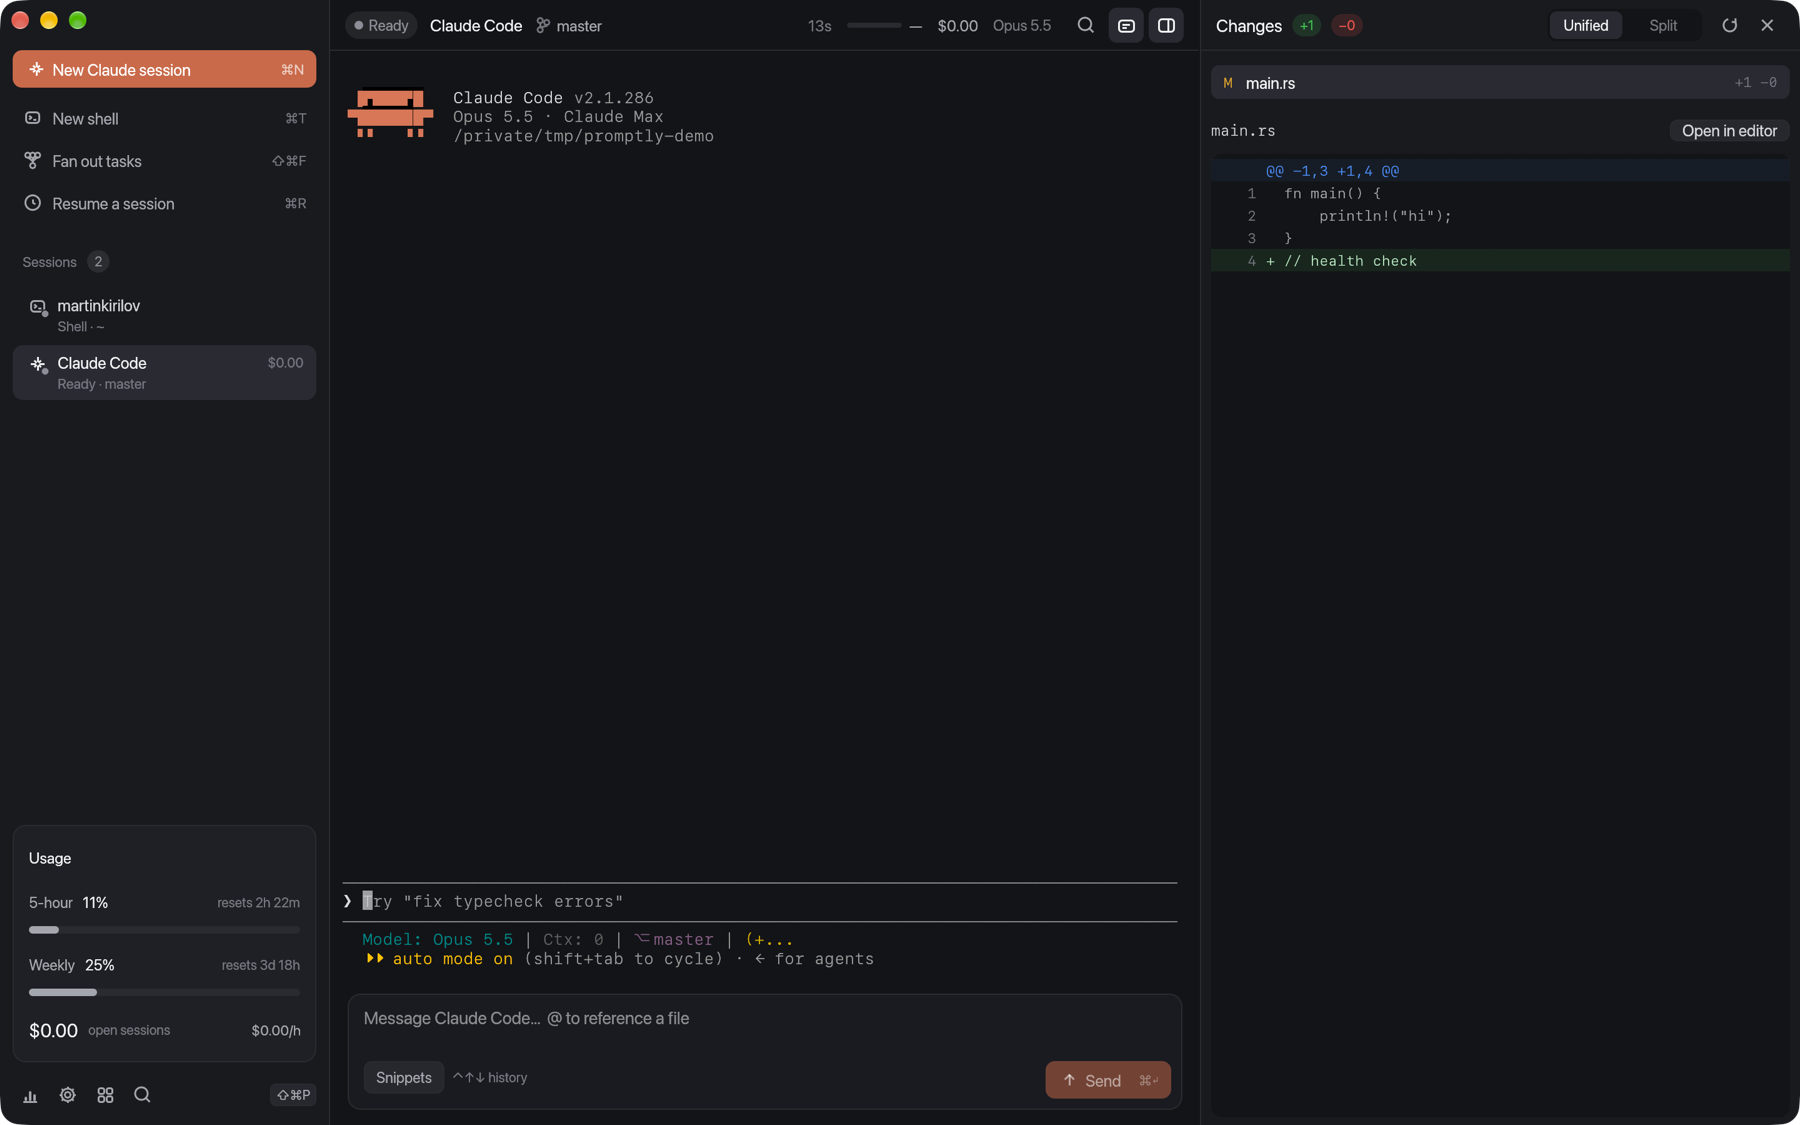
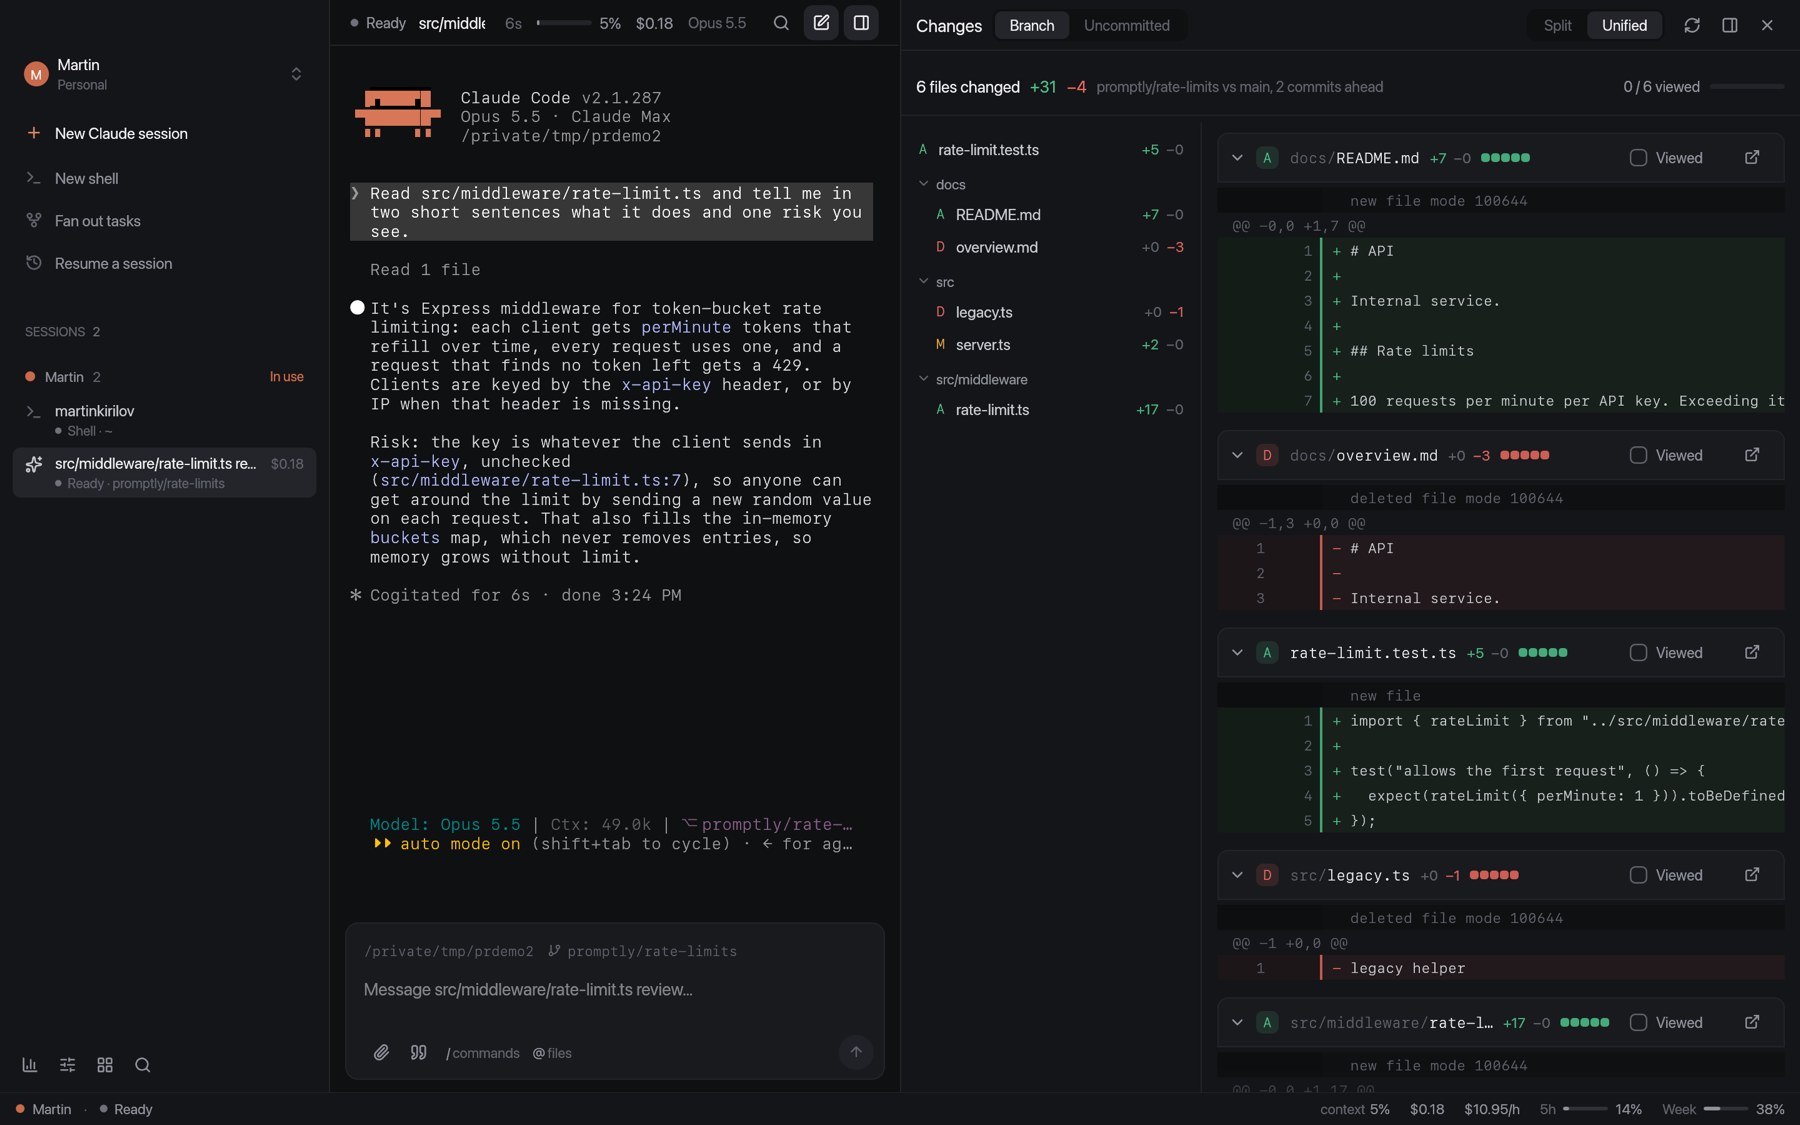
New screenshots of the redesign; header never overlaps
- README and website screenshots re-shot from a real Claude Code session
  (main window with review, usage dashboard, command palette)
- README and site text: usage meters live in the status bar; Settings >
  Updates offers "Update to vX"
- Pane header lays out its right-hand controls first and clips the title,
  so narrow panes (e.g. with review open) no longer overlap
- Account and shell-command actions moved to the end of the palette
- marketing test renders these screenshots (opt-in, uses a real session)

diff --git a/site/index.html b/site/index.html
@@ -288,7 +288,7 @@ footer a { color: var(--label-2); }
       </div>
       <p class="fine"><span class="dl-ver">Latest release</span>. Apple silicon with macOS 14 or later, unsigned for now. Also on Linux.</p>
     </div>
-    <div class="shot reveal"><img src="assets/main.png" alt="Promptly with a Claude Code session in the middle, sessions and live usage in the sidebar, and a diff in the review pane" width="1800" height="1125"></div>
+    <div class="shot reveal"><img src="assets/main.png" alt="Promptly with a Claude Code session in the middle, sessions in the sidebar, live plan usage in the status bar, and a diff in the review pane" width="1800" height="1125"></div>
   </header>
 
   <section id="highlights">

diff --git a/crates/promptly/src/app.rs b/crates/promptly/src/app.rs
@@ -89,19 +89,6 @@ enum Action {
 
 const ACTIONS: &[(Action, &str, &str, &str)] = &[
     (
-        Action::SwitchAccount,
-        "switch_account",
-        "Switch Claude account",
-        "primary+shift+a",
-    ),
-    (Action::AddAccount, "add_account", "Add Claude account", ""),
-    (
-        Action::AskCommand,
-        "ask_command",
-        "Ask Claude for a shell command",
-        "primary+i",
-    ),
-    (
         Action::Palette,
         "palette",
         "Command palette",
@@ -244,6 +231,19 @@ const ACTIONS: &[(Action, &str, &str, &str)] = &[
         "install_update",
         "Install available update",
         "",
+    ),
+    (
+        Action::SwitchAccount,
+        "switch_account",
+        "Switch Claude account",
+        "primary+shift+a",
+    ),
+    (Action::AddAccount, "add_account", "Add Claude account", ""),
+    (
+        Action::AskCommand,
+        "ask_command",
+        "Ask Claude for a shell command",
+        "primary+i",
     ),
 ];
 
@@ -2945,57 +2945,15 @@ impl App {
                 [rect.left_bottom(), rect.right_bottom()],
                 egui::Stroke::new(1.0, theme::tokens::BORDER),
             );
-            let mut hui = ui.new_child(
+            // Right-hand controls get their space first; the title side is
+            // clipped to what is left, so narrow panes never overlap.
+            let full = rect.shrink2(egui::vec2(16.0, 0.0));
+            let mut rui = ui.new_child(
                 egui::UiBuilder::new()
-                    .max_rect(rect.shrink2(egui::vec2(16.0, 0.0)))
-                    .layout(egui::Layout::left_to_right(egui::Align::Center)),
+                    .max_rect(full)
+                    .layout(egui::Layout::right_to_left(egui::Align::Center)),
             );
-            let ui = &mut hui;
-            ui.spacing_mut().item_spacing.x = 10.0;
-            let st = m.state();
-            if m.is_claude() {
-                kit::state_pill(ui, kit::state_label(st), theme::state_color(st));
-            } else {
-                let (label, col) = match (m.command_running, m.last_exit) {
-                    (true, _) => ("Running".to_string(), theme::BLUE),
-                    (false, Some(c)) if c != 0 => (format!("Exit {c}"), theme::RED),
-                    _ => ("Shell".to_string(), theme::MUTED),
-                };
-                kit::state_pill(ui, &label, col);
-            }
-            let title_col = if is_active {
-                theme::tokens::TEXT
-            } else {
-                theme::tokens::TEXT_2
-            };
-            ui.label(RichText::new(m.display_name()).size(13.0).color(title_col))
-                .on_hover_text(m.cwd.to_string_lossy());
-            if let Some(tag) = c.account_tag(&m.account) {
-                let label = c.account(&m.account).map(|a| a.label()).unwrap_or_default();
-                kit::dot_label(
-                    ui,
-                    &tag,
-                    kit::avatar_color(c.account_index(&m.account)),
-                    theme::tokens::TEXT_3,
-                )
-                .on_hover_text(format!("Claude account: {label}"));
-            }
-            if let Some(b) = &m.branch {
-                let (r, _) = ui.allocate_exact_size(egui::vec2(14.0, 14.0), egui::Sense::hover());
-                kit::paint_icon(ui, r, Icon::Branch, theme::tokens::TEXT_3);
-                ui.add_space(-6.0);
-                ui.label(
-                    RichText::new(b)
-                        .font(FontId::monospace(11.5))
-                        .color(theme::tokens::TEXT_3),
-                );
-            }
-            if m.is_claude() && !m.hooks_injected {
-                kit::dot_label(ui, "transcript-only", theme::AMBER, theme::tokens::TEXT_3)
-                    .on_hover_text("Hooks are not injected; state is derived from the transcript.");
-            }
-
-            ui.with_layout(egui::Layout::right_to_left(egui::Align::Center), |ui| {
+            (|ui: &mut egui::Ui| {
                 ui.spacing_mut().item_spacing.x = 4.0;
                 if kit::icon_button(ui, Icon::PanelRight, "Review changes", self.review_open)
                     .clicked()
@@ -3055,7 +3013,59 @@ impl App {
                     .unwrap_or_else(|| m.started.elapsed());
                 ui.label(RichText::new(fmt_dur(elapsed)).size(12.5).color(muted))
                     .on_hover_text("Current or last turn");
-            });
+            })(&mut rui);
+            let right_w = rui.min_rect().width();
+            let left_rect = full.with_max_x((full.max.x - right_w - 16.0).max(full.min.x));
+            let mut hui = ui.new_child(
+                egui::UiBuilder::new()
+                    .max_rect(left_rect)
+                    .layout(egui::Layout::left_to_right(egui::Align::Center)),
+            );
+            hui.set_clip_rect(left_rect.intersect(ui.clip_rect()));
+            let ui = &mut hui;
+            ui.spacing_mut().item_spacing.x = 10.0;
+            let st = m.state();
+            if m.is_claude() {
+                kit::state_pill(ui, kit::state_label(st), theme::state_color(st));
+            } else {
+                let (label, col) = match (m.command_running, m.last_exit) {
+                    (true, _) => ("Running".to_string(), theme::BLUE),
+                    (false, Some(c)) if c != 0 => (format!("Exit {c}"), theme::RED),
+                    _ => ("Shell".to_string(), theme::MUTED),
+                };
+                kit::state_pill(ui, &label, col);
+            }
+            let title_col = if is_active {
+                theme::tokens::TEXT
+            } else {
+                theme::tokens::TEXT_2
+            };
+            ui.label(RichText::new(m.display_name()).size(13.0).color(title_col))
+                .on_hover_text(m.cwd.to_string_lossy());
+            if let Some(tag) = c.account_tag(&m.account) {
+                let label = c.account(&m.account).map(|a| a.label()).unwrap_or_default();
+                kit::dot_label(
+                    ui,
+                    &tag,
+                    kit::avatar_color(c.account_index(&m.account)),
+                    theme::tokens::TEXT_3,
+                )
+                .on_hover_text(format!("Claude account: {label}"));
+            }
+            if let Some(b) = &m.branch {
+                let (r, _) = ui.allocate_exact_size(egui::vec2(14.0, 14.0), egui::Sense::hover());
+                kit::paint_icon(ui, r, Icon::Branch, theme::tokens::TEXT_3);
+                ui.add_space(-6.0);
+                ui.label(
+                    RichText::new(b)
+                        .font(FontId::monospace(11.5))
+                        .color(theme::tokens::TEXT_3),
+                );
+            }
+            if m.is_claude() && !m.hooks_injected {
+                kit::dot_label(ui, "transcript-only", theme::AMBER, theme::tokens::TEXT_3)
+                    .on_hover_text("Hooks are not injected; state is derived from the transcript.");
+            }
         }
         // Callouts under the header.
         let c = self.core.lock();
@@ -4878,6 +4888,65 @@ pub type Scene = (&'static str, fn(&mut App));
 
 #[cfg(test)]
 impl App {
+    /// Marketing renders: start a real Claude session in `cwd`.
+    pub fn demo_claude(&mut self, cwd: &str) -> Option<PaneId> {
+        self.spawn(NewSession {
+            cwd: Some(cwd.into()),
+            claude: true,
+            ..Default::default()
+        })
+    }
+
+    /// Visible text of a pane (marketing renders).
+    pub fn demo_screen(&self, id: PaneId) -> String {
+        self.panes
+            .get(&id)
+            .map(|e| term_view::screen_text(&e.pane, 200).join("\n"))
+            .unwrap_or_default()
+    }
+
+    /// Type raw bytes into a pane.
+    pub fn demo_type(&self, id: PaneId, bytes: &[u8]) {
+        if let Some(e) = self.panes.get(&id) {
+            e.pane.write(bytes.to_vec());
+        }
+    }
+
+    /// Send a message the way the composer does.
+    pub fn demo_send(&mut self, id: PaneId, text: &str) {
+        self.send_message(id, text, &[]);
+    }
+
+    /// Claude is working on a turn.
+    pub fn demo_working(&self, id: PaneId) -> bool {
+        self.core
+            .lock()
+            .sessions
+            .get(&id)
+            .is_some_and(|m| m.state() == SessionState::Working)
+    }
+
+    /// The session finished a turn and reported its cost.
+    pub fn demo_settled(&self, id: PaneId) -> bool {
+        self.core.lock().sessions.get(&id).is_some_and(|m| {
+            m.status.cost_usd.is_some()
+                && matches!(
+                    m.state(),
+                    SessionState::Idle | SessionState::Done | SessionState::WaitingInput
+                )
+        })
+    }
+
+    pub fn demo_view(&mut self, review: bool, usage: bool, palette: bool) {
+        self.review_open = review;
+        self.review_full = false;
+        self.usage_mode = usage;
+        self.palette = None;
+        if palette {
+            self.run(Action::Palette);
+        }
+    }
+
     /// Ask for a harmless command (the Enter-runs-it check).
     pub fn run_ask_scene(&mut self) {
         if let Some(id) = self.active {

diff --git a/crates/promptly/src/shots.rs b/crates/promptly/src/shots.rs
@@ -83,3 +83,118 @@ fn shots() {
     }
     render(&mut h, &dir, "13-account-switcher");
 }
+
+/// Marketing screenshots for the README and the website, from a real Claude
+/// Code session. Opt-in (uses your Claude login and a little of your plan):
+///   PROMPTLY_SHOTS=/tmp/m cargo test -p promptly marketing -- --ignored --nocapture
+/// Needs `promptly-ctl` next to the test binary for live usage.
+#[test]
+#[ignore]
+fn marketing() {
+    use std::time::{Duration, Instant};
+    let dir = std::path::PathBuf::from(
+        std::env::var("PROMPTLY_SHOTS").unwrap_or_else(|_| "/tmp/promptly-marketing".into()),
+    );
+    std::fs::create_dir_all(&dir).unwrap();
+    let tmp = tempfile::tempdir().unwrap();
+    let data = tmp.path().join("data");
+    std::fs::create_dir_all(&data).unwrap();
+    // Real plan-limit history so the dashboard has a trend.
+    let real = promptly_core::paths::data_dir();
+    for f in std::fs::read_dir(&real).into_iter().flatten().flatten() {
+        let n = f.file_name().to_string_lossy().to_string();
+        if n.starts_with("usage") && n.ends_with(".json") {
+            let _ = std::fs::copy(f.path(), data.join(&n));
+        }
+    }
+    // Show a display name instead of an email in public images.
+    let home = promptly_core::paths::home().join(".claude");
+    let accounts = serde_json::json!({
+        "names": { home.to_string_lossy(): "Martin" },
+        "active": home.to_string_lossy(),
+    });
+    std::fs::write(data.join("accounts.json"), accounts.to_string()).unwrap();
+    // SAFETY: test-only setup before any app threads start.
+    unsafe {
+        std::env::set_var("PROMPTLY_DATA_DIR", &data);
+        std::env::set_var("XDG_CONFIG_HOME", tmp.path().join("config"));
+        std::env::set_var("XDG_RUNTIME_DIR", tmp.path().join("run"));
+        for k in [
+            "PROMPTLY_CONTROL",
+            "PROMPTLY_SOCKET",
+            "PROMPTLY_TOKEN",
+            "PROMPTLY_SESSION",
+            "PROMPTLY_FAKE_VERSION",
+        ] {
+            std::env::remove_var(k);
+        }
+    }
+    let mut h = Harness::builder()
+        .with_size(egui::vec2(1440.0, 900.0))
+        .with_pixels_per_point(2.0)
+        .wgpu()
+        .build_eframe(|cc| App::new(cc));
+    // Render shortcuts as on a Mac (⌘), where these screenshots are used.
+    h.ctx.set_os(egui::os::OperatingSystem::Mac);
+    let pump = |h: &mut Harness<'_, App>, secs: f32| {
+        let t0 = Instant::now();
+        while t0.elapsed().as_secs_f32() < secs {
+            h.step();
+            std::thread::sleep(Duration::from_millis(50));
+        }
+    };
+    pump(&mut h, 1.0);
+    let id = h
+        .state_mut()
+        .demo_claude("/private/tmp/prdemo2")
+        .expect("claude session");
+    // Wait for Claude's prompt; accept the one-time folder trust question.
+    let t0 = Instant::now();
+    let mut trusted = false;
+    loop {
+        pump(&mut h, 0.5);
+        let screen = h.state().demo_screen(id);
+        if !trusted && screen.contains("trust this folder") {
+            // The default answer is "No, exit": move to "Yes" first.
+            h.state().demo_type(id, b"\x1b[B");
+            pump(&mut h, 0.4);
+            h.state().demo_type(id, b"\r");
+            trusted = true;
+            pump(&mut h, 2.0);
+            continue;
+        }
+        if screen.contains("❯") || t0.elapsed() > Duration::from_secs(40) {
+            break;
+        }
+    }
+    pump(&mut h, 1.5);
+    h.state_mut().demo_send(
+        id,
+        "Read src/middleware/rate-limit.ts and tell me in two short sentences what it does and one risk you see.",
+    );
+    // Wait for the turn to start, then to finish.
+    let t0 = Instant::now();
+    while !h.state().demo_working(id) && t0.elapsed() < Duration::from_secs(30) {
+        pump(&mut h, 0.3);
+    }
+    let t0 = Instant::now();
+    while (h.state().demo_working(id) || !h.state().demo_settled(id))
+        && t0.elapsed() < Duration::from_secs(180)
+    {
+        pump(&mut h, 0.5);
+    }
+    pump(&mut h, 2.0);
+    let shot = |h: &mut Harness<'_, App>, name: &str| {
+        pump(h, 1.2);
+        let img = h.render().expect("render");
+        let path = dir.join(format!("{name}.png"));
+        img.save(&path).expect("save png");
+        println!("wrote {}", path.display());
+    };
+    h.state_mut().demo_view(true, false, false);
+    shot(&mut h, "main");
+    h.state_mut().demo_view(false, true, false);
+    shot(&mut h, "usage");
+    h.state_mut().demo_view(false, false, true);
+    shot(&mut h, "palette");
+}

diff --git a/README.md b/README.md
@@ -64,14 +64,15 @@ Promptly reads that structure for you:
 Claude Code reports your plan's rate limits to its status line. Promptly turns them
 into a live view:
 
-- **5-hour and weekly limit meters**, always in the sidebar, with reset countdowns
-  ticking down to the second.
-- **Spend and burn rate** across open sessions (`$1.24 · $3.10/h`), with numbers that
-  animate as they change and a "live" indicator while tokens are flowing.
+- **5-hour and weekly limit meters**, always in the status bar along the bottom of
+  the window, next to the active session's context and cost.
+- **Spend and burn rate** across the account's open sessions (`$1.24 · $3.10/h`),
+  with numbers that animate as they change and a "live" indicator while tokens are
+  flowing.
 - **The usage dashboard (⌘U):**
-  - limit history sparklines
-  - today's tokens across *every* Claude Code session on the machine, including ones
-    started outside Promptly, deduplicated per request
+  - reset countdowns ticking down to the second, and limit history sparklines
+  - today's tokens across *every* Claude Code session of the account in use,
+    including ones started outside Promptly, deduplicated per request
   - tokens by hour and per model
   - a per-session table with cost, tokens, burn rate, context %, lines changed and a
     one-hour spend sparkline
@@ -168,8 +169,8 @@ Promptly updates itself from this repository's
 
 1. It checks for a newer release at launch and every 6 hours. You can also run
    **Check for updates** from the command palette or **Settings › Updates**.
-2. When one exists, an **Update available** card appears in the sidebar. Click
-   **Update**.
+2. When one exists, an **Update available** card appears in the sidebar, and
+   **Settings › Updates** shows **Update to vX** next to **Check now**. Click either.
 3. Promptly downloads the build for your platform and verifies its SHA-256 against
    the release's `SHA256SUMS`. It won't install a build without a matching checksum.
 4. It replaces `Promptly.app` (or the `promptly` and `promptly-ctl` binaries from the
